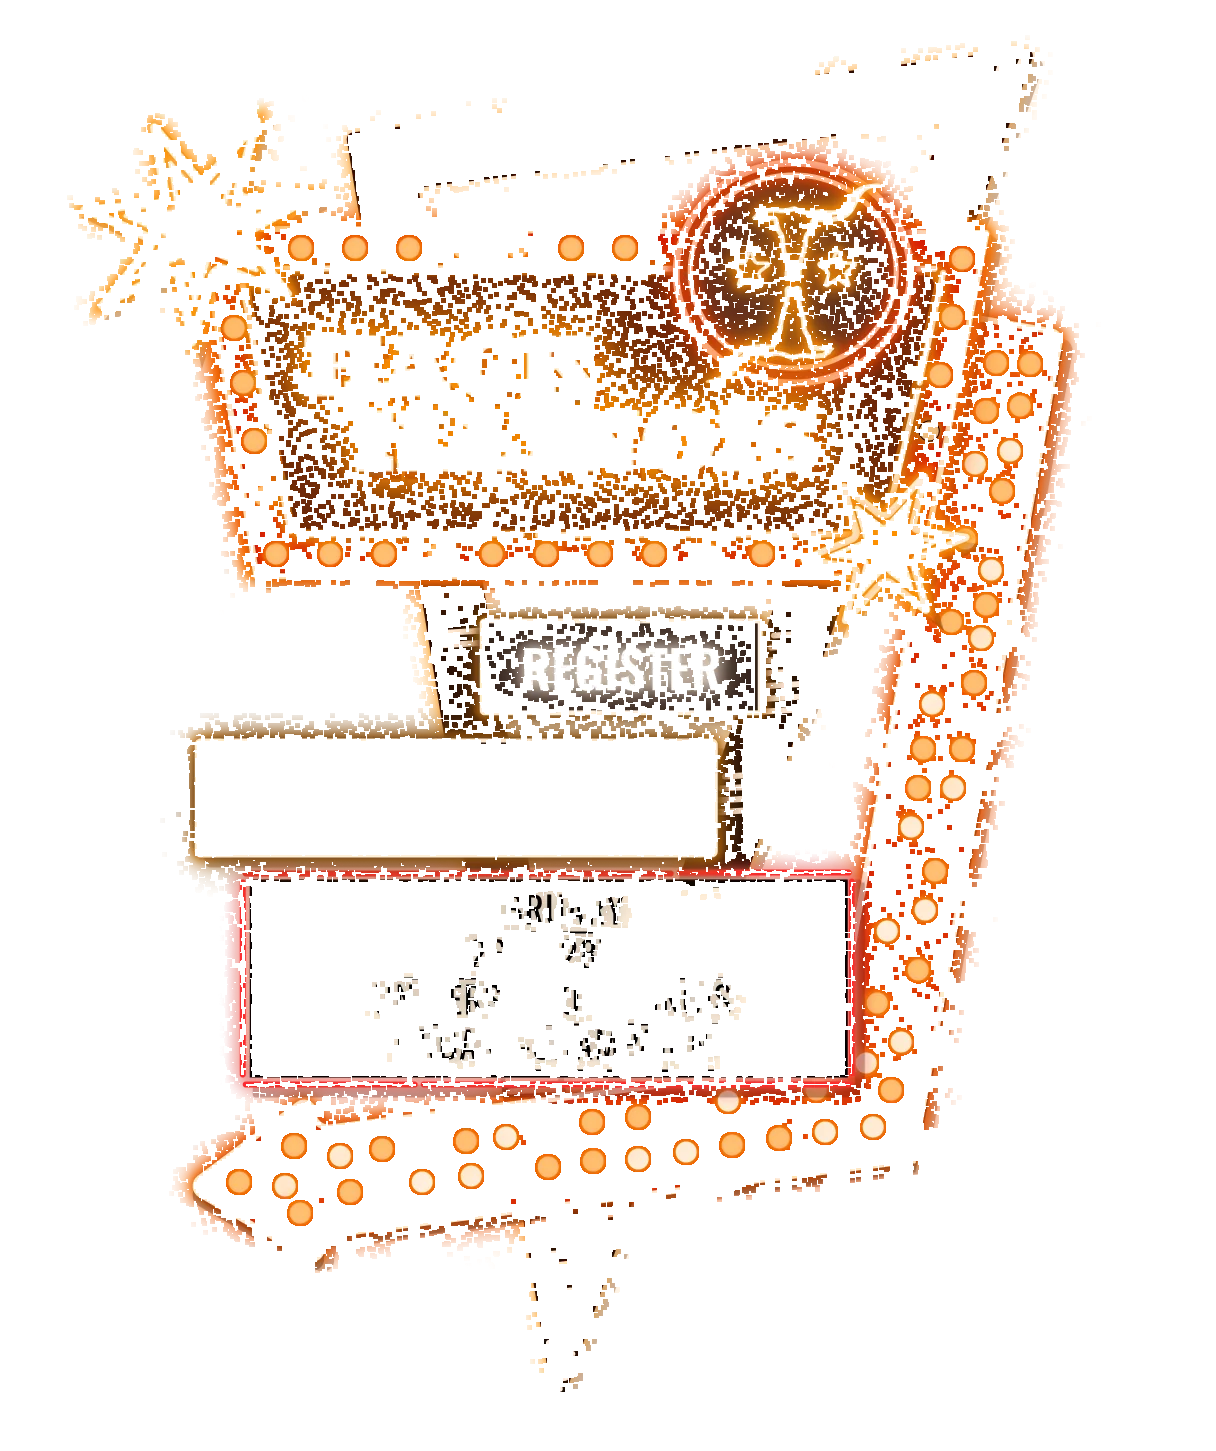
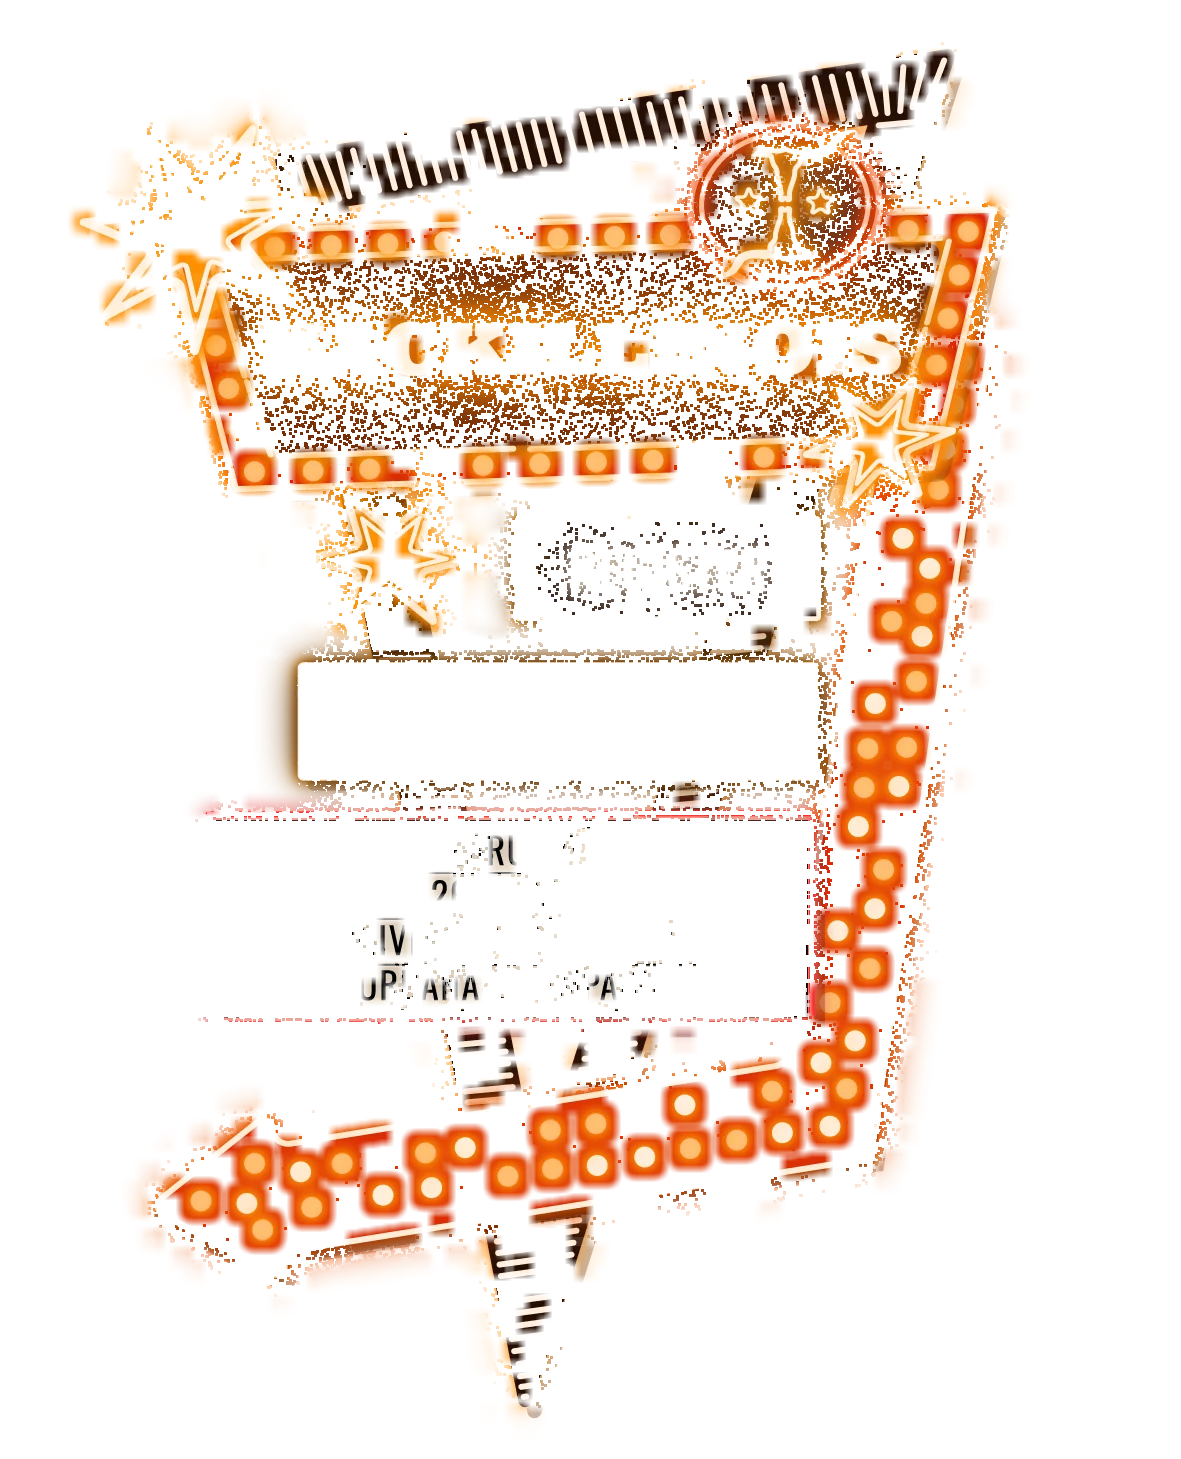
add oneliner sign + differing lights

Changed region(s): [[0.061, 0.031, 0.884, 0.9924]]

diff --git a/app/page.module.scss b/app/page.module.scss
@@ -12,7 +12,8 @@
 }
 
 // The clock and register link sit inside .signLayer, positioned against the
-// boxes drawn in SIGN.png (1216 x 1451), so they stay on the art at any size.
+// boxes drawn in marquee-sign.webp (1181 x 1459), so they stay on the art at any
+// size.
 
 .signLayer img {
     display: block;
@@ -20,7 +21,7 @@
     height: auto;
 }
 
-// SIGN2.png (the other bulb pattern) sits exactly over SIGN.png.
+// marquee-sign-bulbs.webp (the other bulb pattern) sits exactly over the sign.
 .signLayer img.signAlternate {
     position: absolute;
     inset: 0;
@@ -295,11 +296,11 @@
 .clock {
     position: absolute;
     z-index: 1;
-    // Box at x 198-714, y 738-857 in SIGN.png.
-    top: 50.86%;
-    left: 16.28%;
-    width: 42.43%;
-    height: 8.2%;
+    // Box at x 298-817, y 662-779 in marquee-sign.webp.
+    top: 45.37%;
+    left: 25.23%;
+    width: 43.95%;
+    height: 8.02%;
     display: grid;
     place-items: center;
     border: 0.24cqw solid #ffe8c5;
@@ -329,11 +330,11 @@
 }
 
 .registerHotspot {
-    // Plate at x 478-764, y 618-715 in SIGN.png.
-    top: 42.59%;
-    left: 39.31%;
-    width: 23.52%;
-    height: 6.69%;
+    // Plate at x 515-820, y 516-620 in marquee-sign.webp.
+    top: 35.37%;
+    left: 43.61%;
+    width: 25.83%;
+    height: 7.13%;
     pointer-events: auto;
 }
 

diff --git a/app/landing/sequenceAssets.ts b/app/landing/sequenceAssets.ts
@@ -13,8 +13,8 @@ export const sequenceAssets = {
     "saloon-doors-closed": { width: 225, height: 293 },
     "saloon-doors-opening": { width: 225, height: 293 },
     "saloon-doors-open": { width: 225, height: 293 },
-    "marquee-sign": { width: 1216, height: 1451, small: 608 },
-    "marquee-sign-bulbs": { width: 1216, height: 1451 },
+    "marquee-sign": { width: 1181, height: 1459, small: 591 },
+    "marquee-sign-bulbs": { width: 1181, height: 1459 },
     "minecart-1": { width: 607, height: 574 },
     "howdy-note": { width: 681, height: 807 },
     clouds: { width: 2189, height: 486, small: 1095 },
